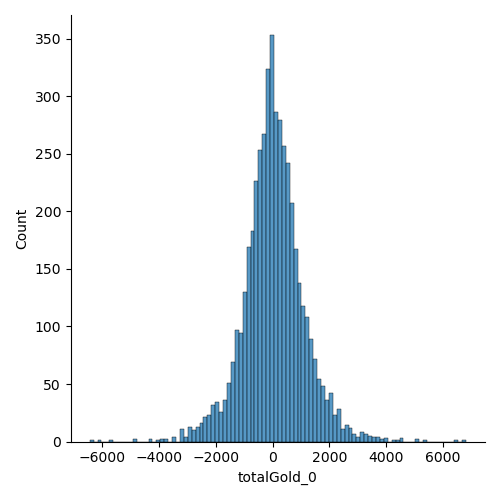
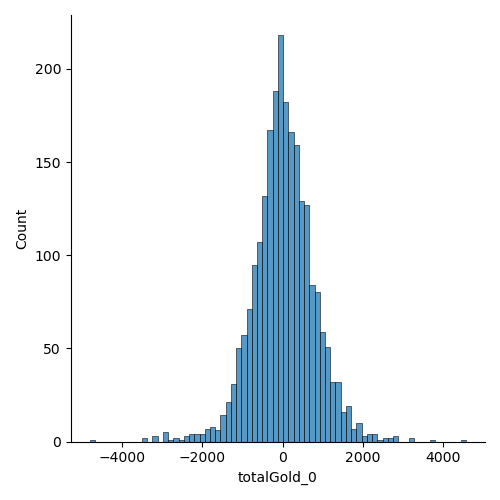
more demo

diff --git a/README.md b/README.md
@@ -38,11 +38,31 @@ pd.DataFrame(sum_stat)
 sum_stat_per_frame = snaps.summary(per_frame=True)
 df = pd.DataFrame(sum_stat_per_frame) 
 
-# Look at the distribution of totalGold for `player 0`
-sns.displot(x="totalGold_0", data=df)
+# Look at the distribution of totalGold difference for `player 0` (TOP player)
+# at 8 minutes mark.
+
+sns.displot(x="totalGold_0", data=data[data['frame'] == 8])
 ```
 
 ![demo_1.png](demo_1.png)
+
+```python
+# Save the DataFrames to disk
+snaps.to_disk()
+
+# Do some simple modelling
+from sklearn.model_selection import train_test_split
+from sklearn.ensemble import RandomForestClassidier
+
+train, test = train_test_split(sum_stat_per_frame, test_size=0.33)
+X_train = train.drop(["matchId", "win"], axis=1)
+y_train = train["win"].astype(int)
+
+rf = RandomForestClassidier()
+rf.fit(X_train, y_train)
+y_fitted = rf.predict(X_train)
+print(f"Training accuracy: {mean(y_train == y_fitted)}")
+```
 
 ## Data
 
